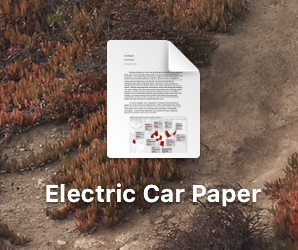
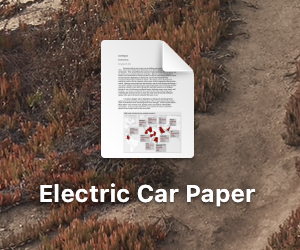
added random button to papers section

diff --git a/Papers-School/papers.html b/Papers-School/papers.html
@@ -58,6 +58,9 @@
         <button type="button" class="btn btn-light dark-btn" id= "darkbutton">
             Dark
         </button>
+        <button type="button" class="btn btn-light toggle-btn" id= "randombutton">
+            Random
+        </button>
         <button type="button" class="btn btn-light toggle-btn" id= "togglebutton3">
             Toggle #3
         </button>
@@ -67,6 +70,9 @@
         <button type="button" class="btn btn-light toggle-btn" id= "togglebutton1">
             Toggle #1
         </button>
+        <!-- <button type="button" class="btn btn-light practice-btn" id= "practicebutton">
+            Practice
+        </button> -->
         <br>
         <br>
         <br>
@@ -127,9 +133,21 @@
             var button1 = document.getElementById('togglebutton1');
             var button2 = document.getElementById('togglebutton2');
             var button3 = document.getElementById('togglebutton3');
+            var practice = document.getElementById('practicebutton');
             var lightButton = document.getElementById('lightbutton');
             var darkButton = document.getElementById('darkbutton');
             var paperBody = document.getElementById('paperbody');
+            var randomButton = document.getElementById('randombutton');
+            const electricCarImages = ['../assets/images/Papers-Electric8.1.png', '../assets/images/Papers-Electric2.1.png', '../assets/images/Papers-Electric6.1.png', '../assets/images/Papers-Electric9.png', '../assets/images/Papers-Electric10.png', '../assets/images/Papers-Electric11.png', '../assets/images/Papers-Electric12.png', '../assets/images/Papers-Electric13.png', '../assets/images/Papers-Electric14.png', '../assets/images/Papers-Electric15.png', '../assets/images/Papers-Electric16.png', '../assets/images/Papers-Electric17.png', '../assets/images/Papers-Electric18.png', '../assets/images/Papers-Electric19.png'];
+            const hawaiiImages = ['../assets/images/Papers-Hawaii6.png', '../assets/images/Papers-Hawaii3.7.2.png', '../assets/images/Papers-Hawaii4.7.png', '../assets/images/Papers-Hawaii7.png', '../assets/images/Papers-Hawaii8.png', '../assets/images/Papers-Hawaii9.png', '../assets/images/Papers-Hawaii10.png', '../assets/images/Papers-Hawaii11.png', '../assets/images/Papers-Hawaii12.png', '../assets/images/Papers-Hawaii13.png', '../assets/images/Papers-Hawaii14.png', '../assets/images/Papers-Hawaii15.png','../assets/images/Papers-Hawaii16.png', '../assets/images/Papers-Hawaii17.png', '../assets/images/Papers-Hawaii18.png', '../assets/images/Papers-Hawaii19.png', '../assets/images/Papers-Hawaii20.png', '../assets/images/Papers-Hawaii21.png'];
+            const coralReefImages = ['../assets/images/Papers-Corals2.png', '../assets/images/Papers-Corals1.png', '../assets/images/Papers-Corals4.7.png', '../assets/images/Papers-Corals5.png', '../assets/images/Papers-Corals6.png', '../assets/images/Papers-Corals7.png', '../assets/images/Papers-Corals8.png', '../assets/images/Papers-Corals9.png', '../assets/images/Papers-Corals10.png', '../assets/images/Papers-Corals11.png', '../assets/images/Papers-Corals12.png', '../assets/images/Papers-Corals13.png', '../assets/images/Papers-Corals14.png', '../assets/images/Papers-Corals15.png']
+            const footballImages = ['../assets/images/Papers-Fball6.png', '../assets/images/Papers-Fball1.png', '../assets/images/Papers-Fball5.1.2.png', '../assets/images/Papers-Fball7.png', '../assets/images/Papers-Fball8.png', '../assets/images/Papers-Fball9.png', '../assets/images/Papers-Fball10.png', '../assets/images/Papers-Fball11.png', '../assets/images/Papers-Fball12.png', '../assets/images/Papers-Fball13.png', '../assets/images/Papers-Fball14.png', '../assets/images/Papers-Fball15.png', '../assets/images/Papers-Fball16.png', '../assets/images/Papers-Fball17.png', '../assets/images/Papers-Fball18.png', '../assets/images/Papers-Fball19.png', '../assets/images/Papers-Fball20.png', '../assets/images/Papers-Fball21.png', '../assets/images/Papers-Fball22.png', '../assets/images/Papers-Fball23.png', '../assets/images/Papers-Fball24.png']
+            const vietnamImages = ['../assets/images/Papers-VNWar5.png', '../assets/images/Papers-VNWar1.1.png', '../assets/images/Papers-VNWar3.4.png', '../assets/images/Papers-VNWar6.png', '../assets/images/Papers-VNWar7.png', '../assets/images/Papers-VNWar8.png', '../assets/images/Papers-VNWar9.png', '../assets/images/Papers-VNWar10.png', '../assets/images/Papers-VNWar11.png', '../assets/images/Papers-VNWar12.png', '../assets/images/Papers-VNWar13.png', '../assets/images/Papers-VNWar14.png', '../assets/images/Papers-VNWar15.png', '../assets/images/Papers-VNWar16.png', '../assets/images/Papers-VNWar17.png', '../assets/images/Papers-VNWar18.png', '../assets/images/Papers-VNWar19.png', '../assets/images/Papers-VNWar20.png']
+            const steelTownImages = ['../assets/images/Papers-SteelTown1.png', '../assets/images/Papers-SteelTown3.png', '../assets/images/Papers-SteelTown4.4.png', '../assets/images/Papers-SteelTown5.png', '../assets/images/Papers-SteelTown6.png', '../assets/images/Papers-SteelTown7.png', '../assets/images/Papers-SteelTown8.png', '../assets/images/Papers-SteelTown9.png', '../assets/images/Papers-SteelTown10.png', '../assets/images/Papers-SteelTown11.png', '../assets/images/Papers-SteelTown12.png', '../assets/images/Papers-SteelTown13.png', '../assets/images/Papers-SteelTown14.png', '../assets/images/Papers-SteelTown15.png', '../assets/images/Papers-SteelTown16.png', '../assets/images/Papers-SteelTown17.png', '../assets/images/Papers-SteelTown18.png', '../assets/images/Papers-SteelTown19.png', '../assets/images/Papers-SteelTown20.png', '../assets/images/Papers-SteelTown21.png', '../assets/images/Papers-SteelTown22.png', '../assets/images/Papers-SteelTown23.png']
+            const classMyth1Images = ['../assets/images/Papers-ClassMyth1.3.png', '../assets/images/Papers-ClassMyth1.1.png', '../assets/images/Papers-ClassMyth1.5.1.png', '../assets/images/Papers-ClassMyth1.6.png', '../assets/images/Papers-ClassMyth1.7.png', '../assets/images/Papers-ClassMyth1.8.png', '../assets/images/Papers-ClassMyth1.9.png', '../assets/images/Papers-ClassMyth1.10.png', '../assets/images/Papers-ClassMyth1.11.png', '../assets/images/Papers-ClassMyth1.12.png', '../assets/images/Papers-ClassMyth1.13.png', '../assets/images/Papers-ClassMyth1.14.png', '../assets/images/Papers-ClassMyth1.15.png', '../assets/images/Papers-ClassMyth1.16.png', '../assets/images/Papers-ClassMyth1.17.png', '../assets/images/Papers-ClassMyth1.18.png', '../assets/images/Papers-ClassMyth1.19.png', '../assets/images/Papers-ClassMyth1.20.png', '../assets/images/Papers-ClassMyth1.21.png', '../assets/images/Papers-ClassMyth1.22.png', '../assets/images/Papers-ClassMyth1.23.png', '../assets/images/Papers-ClassMyth1.24.png', '../assets/images/Papers-ClassMyth1.25.png', '../assets/images/Papers-ClassMyth1.26.png', '../assets/images/Papers-ClassMyth1.27.png', '../assets/images/Papers-ClassMyth1.28.png', '../assets/images/Papers-ClassMyth1.29.png', '../assets/images/Papers-ClassMyth1.30.png', '../assets/images/Papers-ClassMyth1.31.png', '../assets/images/Papers-ClassMyth1.32.png', '../assets/images/Papers-ClassMyth1.33.png', '../assets/images/Papers-ClassMyth1.34.png', '../assets/images/Papers-ClassMyth1.35.png']
+            const classMyth2Images = ['../assets/images/Papers-ClassMyth2.3.3.png', '../assets/images/Papers-ClassMyth2.1.1.png', '../assets/images/Papers-ClassMyth2.5.1.png','../assets/images/Papers-ClassMyth2.6.png', '../assets/images/Papers-ClassMyth2.7.png', '../assets/images/Papers-ClassMyth2.8.png', '../assets/images/Papers-ClassMyth2.9.png', '../assets/images/Papers-ClassMyth2.10.png', '../assets/images/Papers-ClassMyth2.11.png', '../assets/images/Papers-ClassMyth2.12.png', '../assets/images/Papers-ClassMyth2.13.png', '../assets/images/Papers-ClassMyth2.14.png', '../assets/images/Papers-ClassMyth2.15.png', '../assets/images/Papers-ClassMyth2.16.png', '../assets/images/Papers-ClassMyth2.17.png', '../assets/images/Papers-ClassMyth2.18.png', '../assets/images/Papers-ClassMyth2.19.png', '../assets/images/Papers-ClassMyth2.20.png', '../assets/images/Papers-ClassMyth2.21.png', '../assets/images/Papers-ClassMyth2.22.png', '../assets/images/Papers-ClassMyth2.23.png', '../assets/images/Papers-ClassMyth2.24.png', '../assets/images/Papers-ClassMyth2.25.png', '../assets/images/Papers-ClassMyth2.26.png', '../assets/images/Papers-ClassMyth2.27.png', '../assets/images/Papers-ClassMyth2.28.png', '../assets/images/Papers-ClassMyth2.29.png', '../assets/images/Papers-ClassMyth2.30.png', '../assets/images/Papers-ClassMyth2.31.png', '../assets/images/Papers-ClassMyth2.32.png', '../assets/images/Papers-ClassMyth2.33.png', '../assets/images/Papers-ClassMyth2.34.png', '../assets/images/Papers-ClassMyth2.35.png', '../assets/images/Papers-ClassMyth2.36.png', '../assets/images/Papers-ClassMyth2.37.png', '../assets/images/Papers-ClassMyth2.38.png', '../assets/images/Papers-ClassMyth2.39.png', '../assets/images/Papers-ClassMyth2.40.png']
+            const classMyth3Images = ['../assets/images/Papers-ClassMyth3.1.1.png', '../assets/images/Papers-ClassMyth3.3.1.png', '../assets/images/Papers-ClassMyth3.6.png', '../assets/images/Papers-ClassMyth3.8.png', '../assets/images/Papers-ClassMyth3.9.png', '../assets/images/Papers-ClassMyth3.10.png', '../assets/images/Papers-ClassMyth3.11.png', '../assets/images/Papers-ClassMyth3.12.png', '../assets/images/Papers-ClassMyth3.13.png', '../assets/images/Papers-ClassMyth3.14.png', '../assets/images/Papers-ClassMyth3.15.png', '../assets/images/Papers-ClassMyth3.16.png', '../assets/images/Papers-ClassMyth3.17.png', '../assets/images/Papers-ClassMyth3.18.png', '../assets/images/Papers-ClassMyth3.19.png', '../assets/images/Papers-ClassMyth3.20.png', '../assets/images/Papers-ClassMyth3.21.png', '../assets/images/Papers-ClassMyth3.22.png', '../assets/images/Papers-ClassMyth3.23.png', '../assets/images/Papers-ClassMyth3.24.png', '../assets/images/Papers-ClassMyth3.25.png', '../assets/images/Papers-ClassMyth3.26.png', '../assets/images/Papers-ClassMyth3.27.png', '../assets/images/Papers-ClassMyth3.28.png', '../assets/images/Papers-ClassMyth3.29.png', '../assets/images/Papers-ClassMyth3.30.png', '../assets/images/Papers-ClassMyth3.31.png', '../assets/images/Papers-ClassMyth3.32.png', '../assets/images/Papers-ClassMyth3.33.png', '../assets/images/Papers-ClassMyth3.34.png', '../assets/images/Papers-ClassMyth3.35.png', '../assets/images/Papers-ClassMyth3.36.png', '../assets/images/Papers-ClassMyth3.37.png']
+
 
             var img1 = document.getElementById('paperrow1');
             var img2 = document.getElementById('paperrow2');
@@ -178,6 +196,44 @@
                 // 3.4.1 Works
             })
 
+            // practice.addEventListener('click', () => {
+            //     img1.src = '../assets/images/Papers-Electric9.png';
+            //     img2.src = '../assets/images/Papers-Hawaii7.png';
+            //     img3.src = '../assets/images/Papers-Corals5.png';
+            //     img4.src = '../assets/images/Papers-Fball7.png';
+            //     img5.src = '../assets/images/Papers-VNWar6.png';
+            //     img6.src = '../assets/images/Papers-SteelTown6.png';
+            //     img7.src = '../assets/images/Papers-ClassMyth1.6.png';
+            //     img8.src = '../assets/images/Papers-ClassMyth2.6.png';
+            //     img9.src = '../assets/images/Papers-ClassMyth3.8.png';
+            // })
+            
+            // const electricCarImages = ['../assets/images/Papers-Electric1.png', '../assets/images/Papers-Electric2.1.png', '../assets/images/Papers-Electric3.png', '../assets/images/Papers-Electric4.png', '../assets/images/Papers-Electric6.1.png', '../assets/images/Papers-Electric7.png', '../assets/images/Papers-Electric8.1.png'];
+
+
+            randomButton.addEventListener('click', () => {
+                var randomElectricNumber = Math.floor(Math.random() * electricCarImages.length);
+                var randomHawaiiNumber = Math.floor(Math.random() * hawaiiImages.length);
+                var randomCoralNumber = Math.floor(Math.random() * coralReefImages.length);
+                var randomFootballNumber = Math.floor(Math.random() * footballImages.length);
+                var randomVietnamNumber = Math.floor(Math.random() * vietnamImages.length);
+                var randomSteelTownNumber = Math.floor(Math.random() * steelTownImages.length);
+                var randomClassMyth1Number = Math.floor(Math.random() * classMyth1Images.length);
+                var randomClassMyth2Number = Math.floor(Math.random() * classMyth2Images.length);
+                var randomClassMyth3Number = Math.floor(Math.random() * classMyth3Images.length);
+                img1.src = electricCarImages[randomElectricNumber];
+                img2.src = hawaiiImages[randomHawaiiNumber];
+                img3.src = coralReefImages[randomCoralNumber];
+                img4.src = footballImages[randomFootballNumber];
+                img5.src = vietnamImages[randomVietnamNumber];
+                img6.src = steelTownImages[randomSteelTownNumber];
+                img7.src = classMyth1Images[randomClassMyth1Number];
+                img8.src = classMyth2Images[randomClassMyth2Number];
+                img9.src = classMyth3Images[randomClassMyth3Number];
+                // 3.4.1 Works
+                console.log(randomElectricNumber);
+            })
+
             $('button#lightbutton').click(function () {
                 paperBody.style.background = 'white';
 
@@ -195,6 +251,9 @@
                 }
                 if($('button#togglebutton3').hasClass('btn-dark')){
                     $('button#togglebutton3').removeClass('btn-dark').addClass('btn-light');
+                }
+                if($('button#randombutton').hasClass('btn-dark')){
+                    $('button#randombutton').removeClass('btn-dark').addClass('btn-light');
                 }
                 if($('button#back-button').hasClass('btn-dark')){
                     $('button#back-button').removeClass('btn-dark').addClass('btn-light');
@@ -225,6 +284,9 @@
                 if($('button#togglebutton3').hasClass('btn-light')){
                     $('button#togglebutton3').removeClass('btn-light').addClass('btn-dark');
                 }
+                if($('button#randombutton').hasClass('btn-light')){
+                    $('button#randombutton').removeClass('btn-light').addClass('btn-dark');
+                }
                 if($('button#back-button').hasClass('btn-light')){
                     $('button#back-button').removeClass('btn-light').addClass('btn-dark');
                 }
@@ -235,9 +297,15 @@
                     $('nav#footer').removeClass('bg-light').addClass('bg-dark');
                 }
             })
+            
+            
 
+            // function randomImage () {
+            //     var random = Math.floor(Math.random() * electricCarImages.length + 1);
+            // };
 
-            console.log(button1);
+            // var randomNumber = Math.floor(Math.random() * electricCarImages.length + 1);
+            // console.log(random);
 
         </script>
         <!-- <div class="row">

diff --git a/assets/css/style.css b/assets/css/style.css
@@ -390,6 +390,11 @@
    margin-right: 50px;
 }
 
+#randombutton {
+   float: right;
+   margin-right: 30px;
+}
+
 #lightbutton:hover {
    transform: scale(1.15);
 }
@@ -410,6 +415,9 @@
    transform: scale(1.15);
 }
 #togglebutton4:hover {
+   transform: scale(1.15);
+}
+#randombutton:hover {
    transform: scale(1.15);
 }
 
